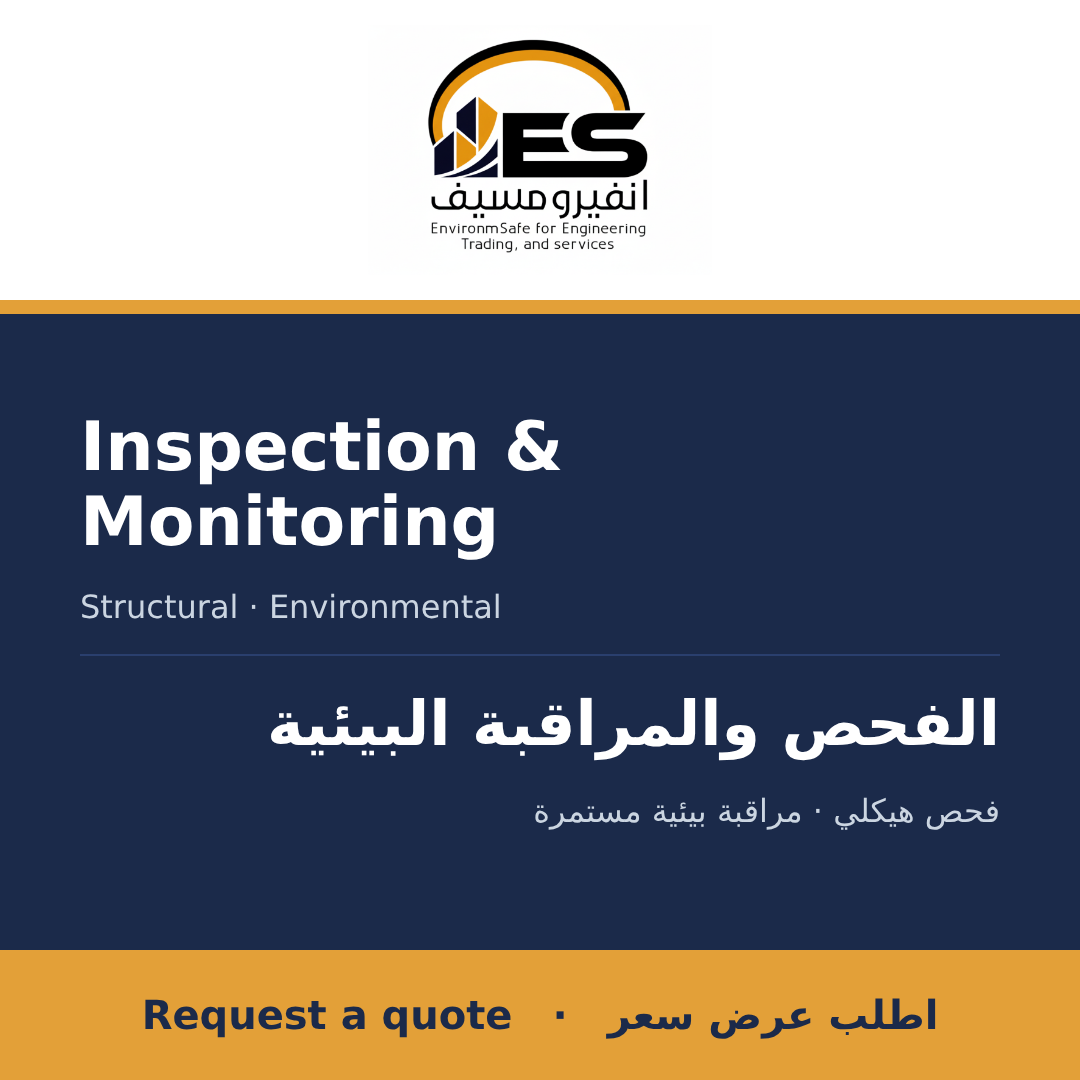
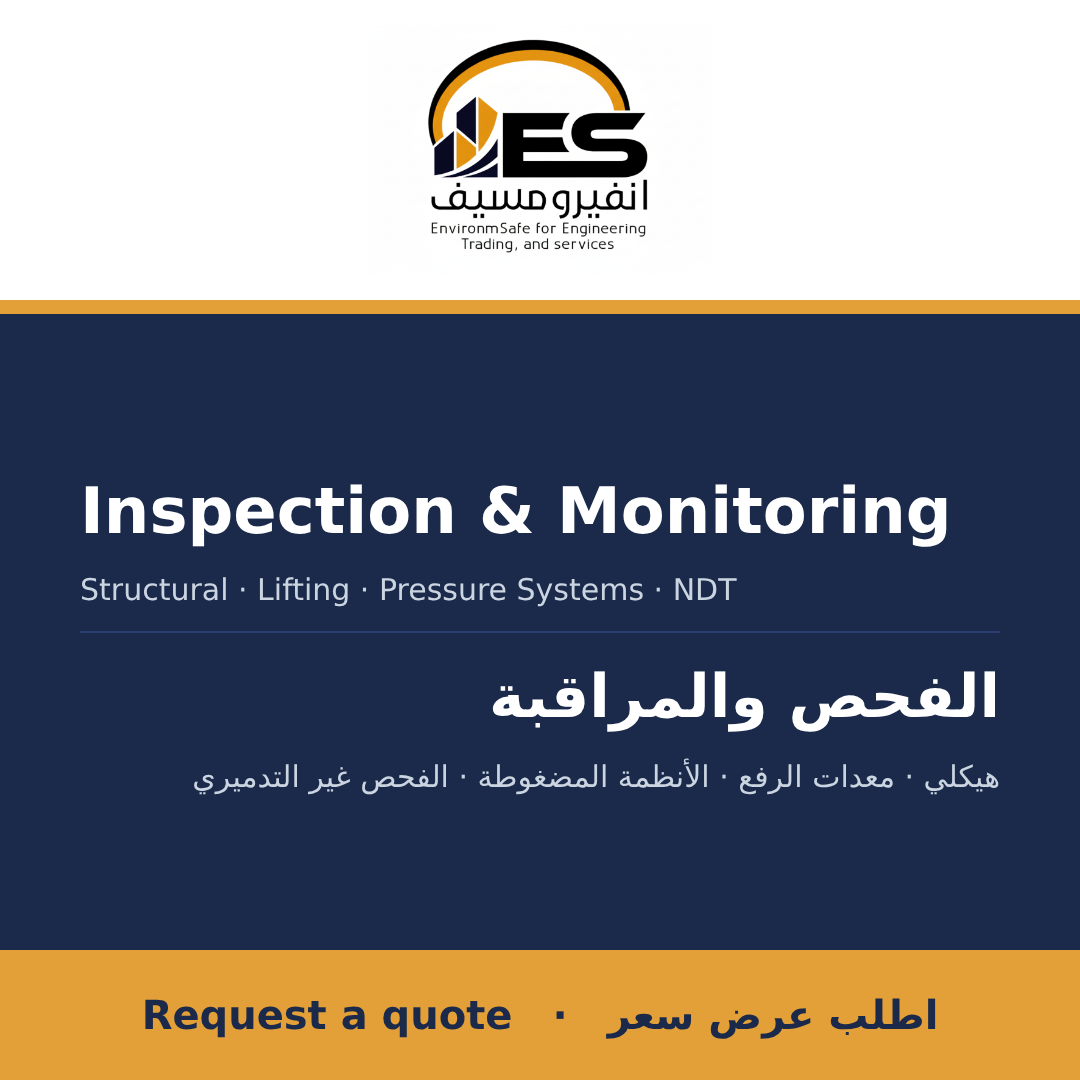
WhatsApp catalog: add Calibration, drop environmental items
Calibration Services is now a catalog section (ES-CAL), placed after PSV,
with twelve items matching the twelve groups on the Calibration page:
electrical test and measurement, calibrators and reference sources, power and
high voltage, pressure, temperature, flow, mass, dimensional, force and
torque, gas detection and HSE instruments, laboratory, and biomedical. Only
laboratory calibration is listed; nothing from the page's coming-soon box.
No partner laboratory is named.

The catalog still sold environmental services the website no longer offers,
so it now matches the site: Air Quality Monitoring, Water Quality Monitoring
and Environmental Engineering Design are removed (with their images);
Inspection & Monitoring loses "environmental" from its name, description and
cover image (re-rendered via a tagline); Permitting and the HSE Management
System no longer mention environmental review or ISO 14001.

Images were rendered with scripts/render_catalog_images.cjs restricted to the
two changed sections; the five unchanged Inspection item images came out
byte-identical. The feed is rebuilt (148 items), and the README's collection
table, totals and business description include Calibration.

Claude-Session: https://claude.ai/code/session_01NxjStnkV1Aeqf2Ezg5VF12

Changed region(s): [[0.0611, 0.3667, 0.9472, 0.7639]]

diff --git a/docs/whatsapp/README.md b/docs/whatsapp/README.md
@@ -34,7 +34,7 @@ In the app: **Settings → Business tools → Business profile**.
 السلامة والحماية من الحرائق، الغاز LPG، اختبار صمامات PSV، ودورات NEBOSH وIOSH في عدن. راسلنا لطلب عرض سعر.
 ```
 
-### Description (max 512 characters — 383)
+### Description (max 512 characters — 444)
 
 ```
 انفيرومسيف للهندسة والتجارة والخدمات – عدن. خدمات الصحة والسلامة والبيئة والهندسة للمنشآت في اليمن والمنطقة:
@@ -42,6 +42,7 @@ In the app: **Settings → Business tools → Business profile**.
 • الحماية من الحرائق وأنظمة إدارة السلامة
 • تصميم وتركيب وفحص أنظمة الغاز LPG
 • تقييم سلامة المراجل والأنظمة الكهربائية
+• معايرة معتمدة لأجهزة القياس الكهربائية والصناعية والمخبرية
 • دورات NEBOSH وIOSH بالعربية والإنجليزية
 راسلنا لطلب عرض سعر.
 ```
@@ -103,7 +104,7 @@ To prepare your quote, please send:
 ## 3. Catalog
 
 The catalog is generated, not typed in. **`items.json` is the source of truth**:
-eleven sections (nine services plus generator and machinery parts supply), each with its sub-items. To change the catalog, edit that file and
+twelve sections (ten services plus generator and machinery parts supply), each with its sub-items. To change the catalog, edit that file and
 run:
 
 ```
@@ -128,10 +129,11 @@ In Commerce Manager the same grouping is available as **Sets** filtered on
 | المعدات الصناعية وقطع غيارها | `ES-MCH` | 12 |
 | الصيانة وقطع الغيار | `ES-MNT` | 6 |
 | اختبار ومعايرة صمامات الأمان PSV | `ES-PSV` | 7 |
+| خدمات المعايرة | `ES-CAL` | 13 |
 | أنظمة الغاز LPG | `ES-LPG` | 6 |
 | أنظمة التكييف والتهوية HVAC | `ES-HVAC` | 7 |
-| الهندسة والإنشاء | `ES-ENG` | 7 |
-| الفحص والمراقبة البيئية | `ES-INSP` | 8 |
+| الهندسة والإنشاء | `ES-ENG` | 6 |
+| الفحص والمراقبة | `ES-INSP` | 6 |
 | تقييم سلامة الأنظمة | `ES-EVAL` | 6 |
 | دورات NEBOSH وIOSH | `ES-TRN` | 12 |
 | السلامة والحماية من الحرائق | `ES-HSE` | 48 |
@@ -139,7 +141,10 @@ In Commerce Manager the same grouping is available as **Sets** filtered on
 Sections are in display order: parts supply and machinery first, safety last.
 Create the collections in this order. The HSE & fire protection collection
 also carries the safety supply lines (fire equipment, PPE, safety solutions,
-fall protection, gas detection). 138 items in total.
+fall protection, gas detection). 148 items in total.
+
+Environmental services are planned but not offered, so they have no catalog
+items; add them when the service launches.
 
 ---
 
